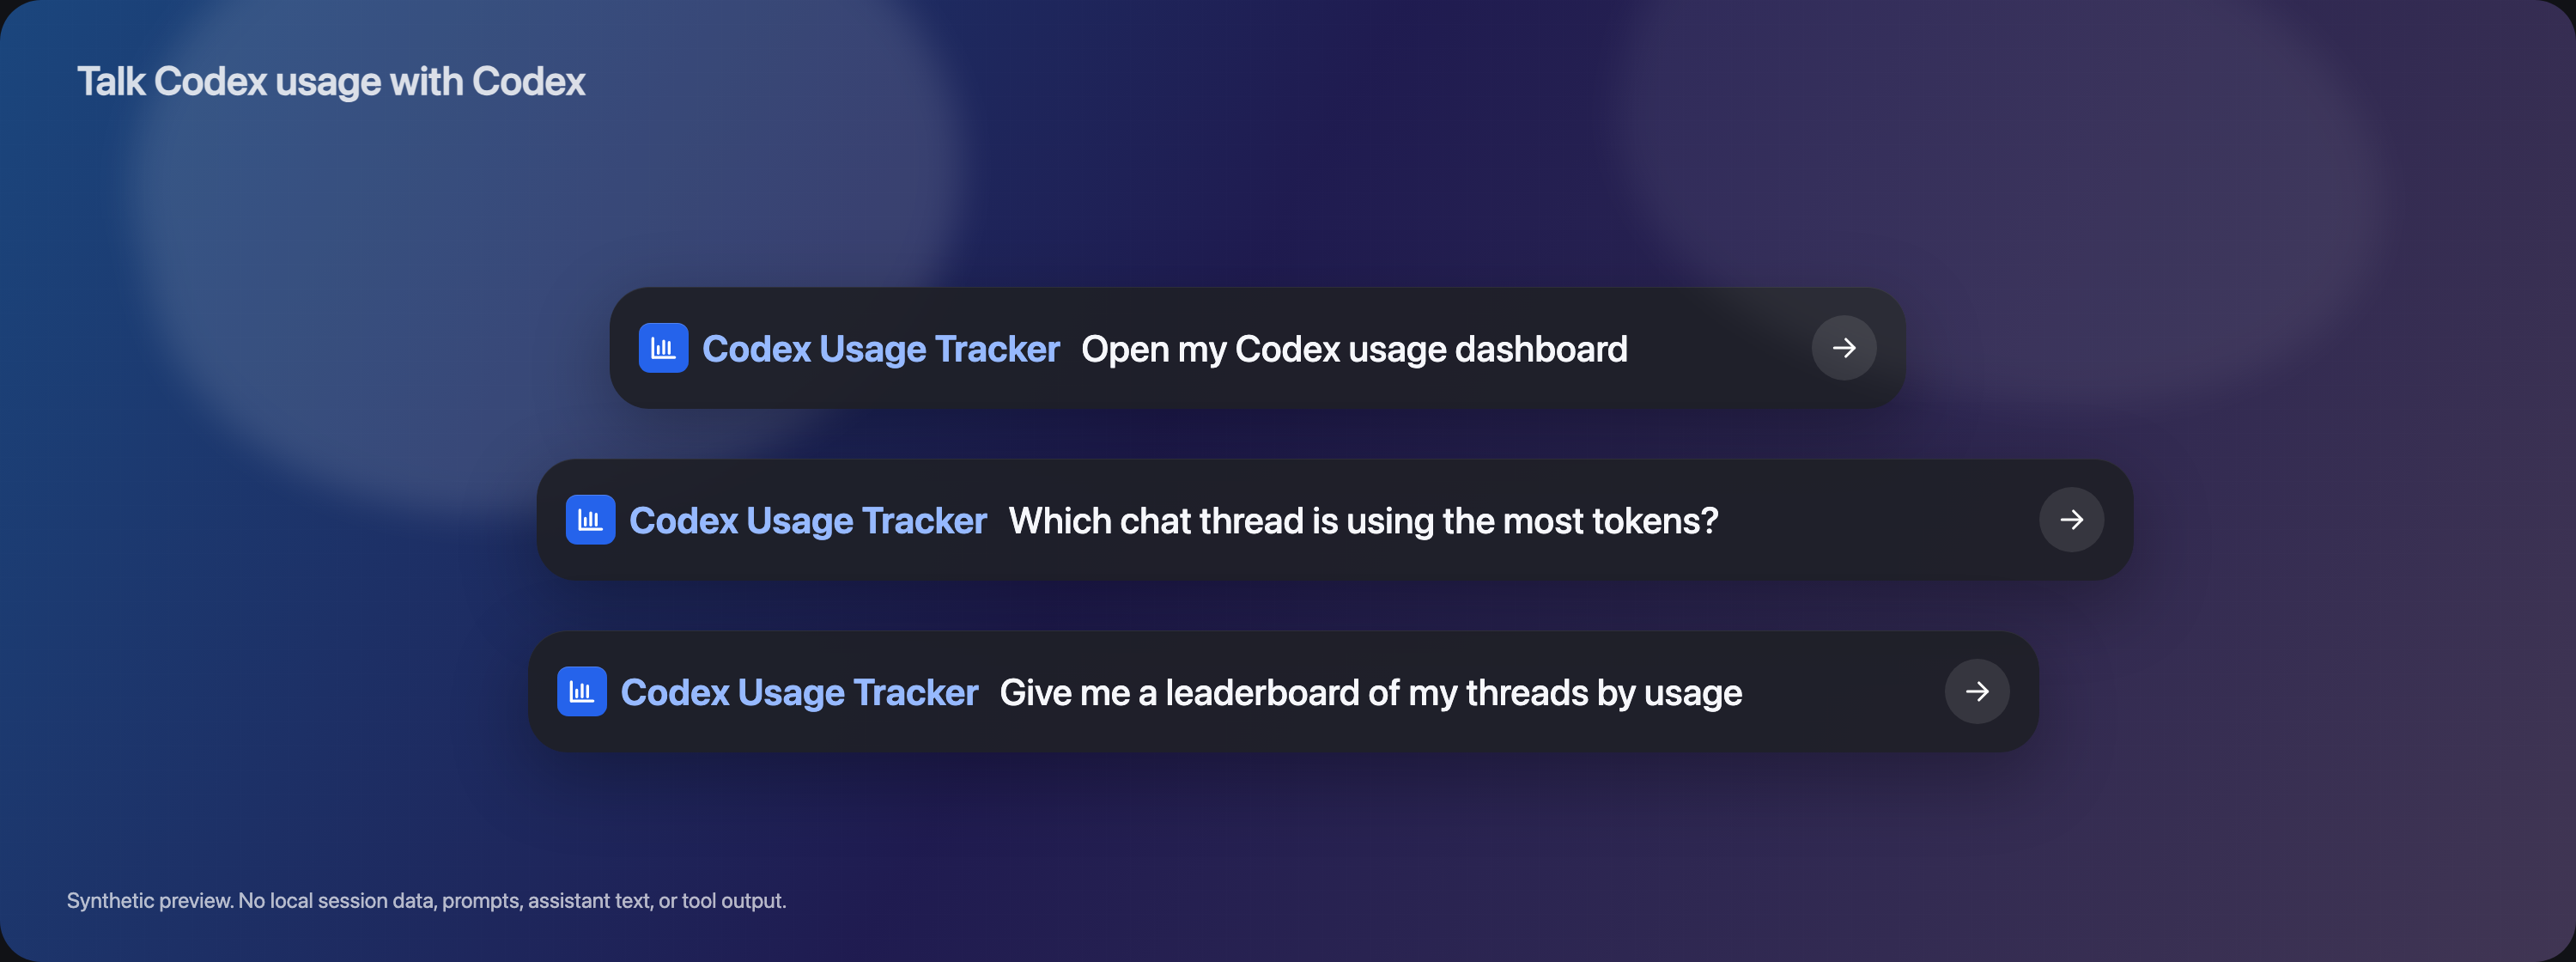
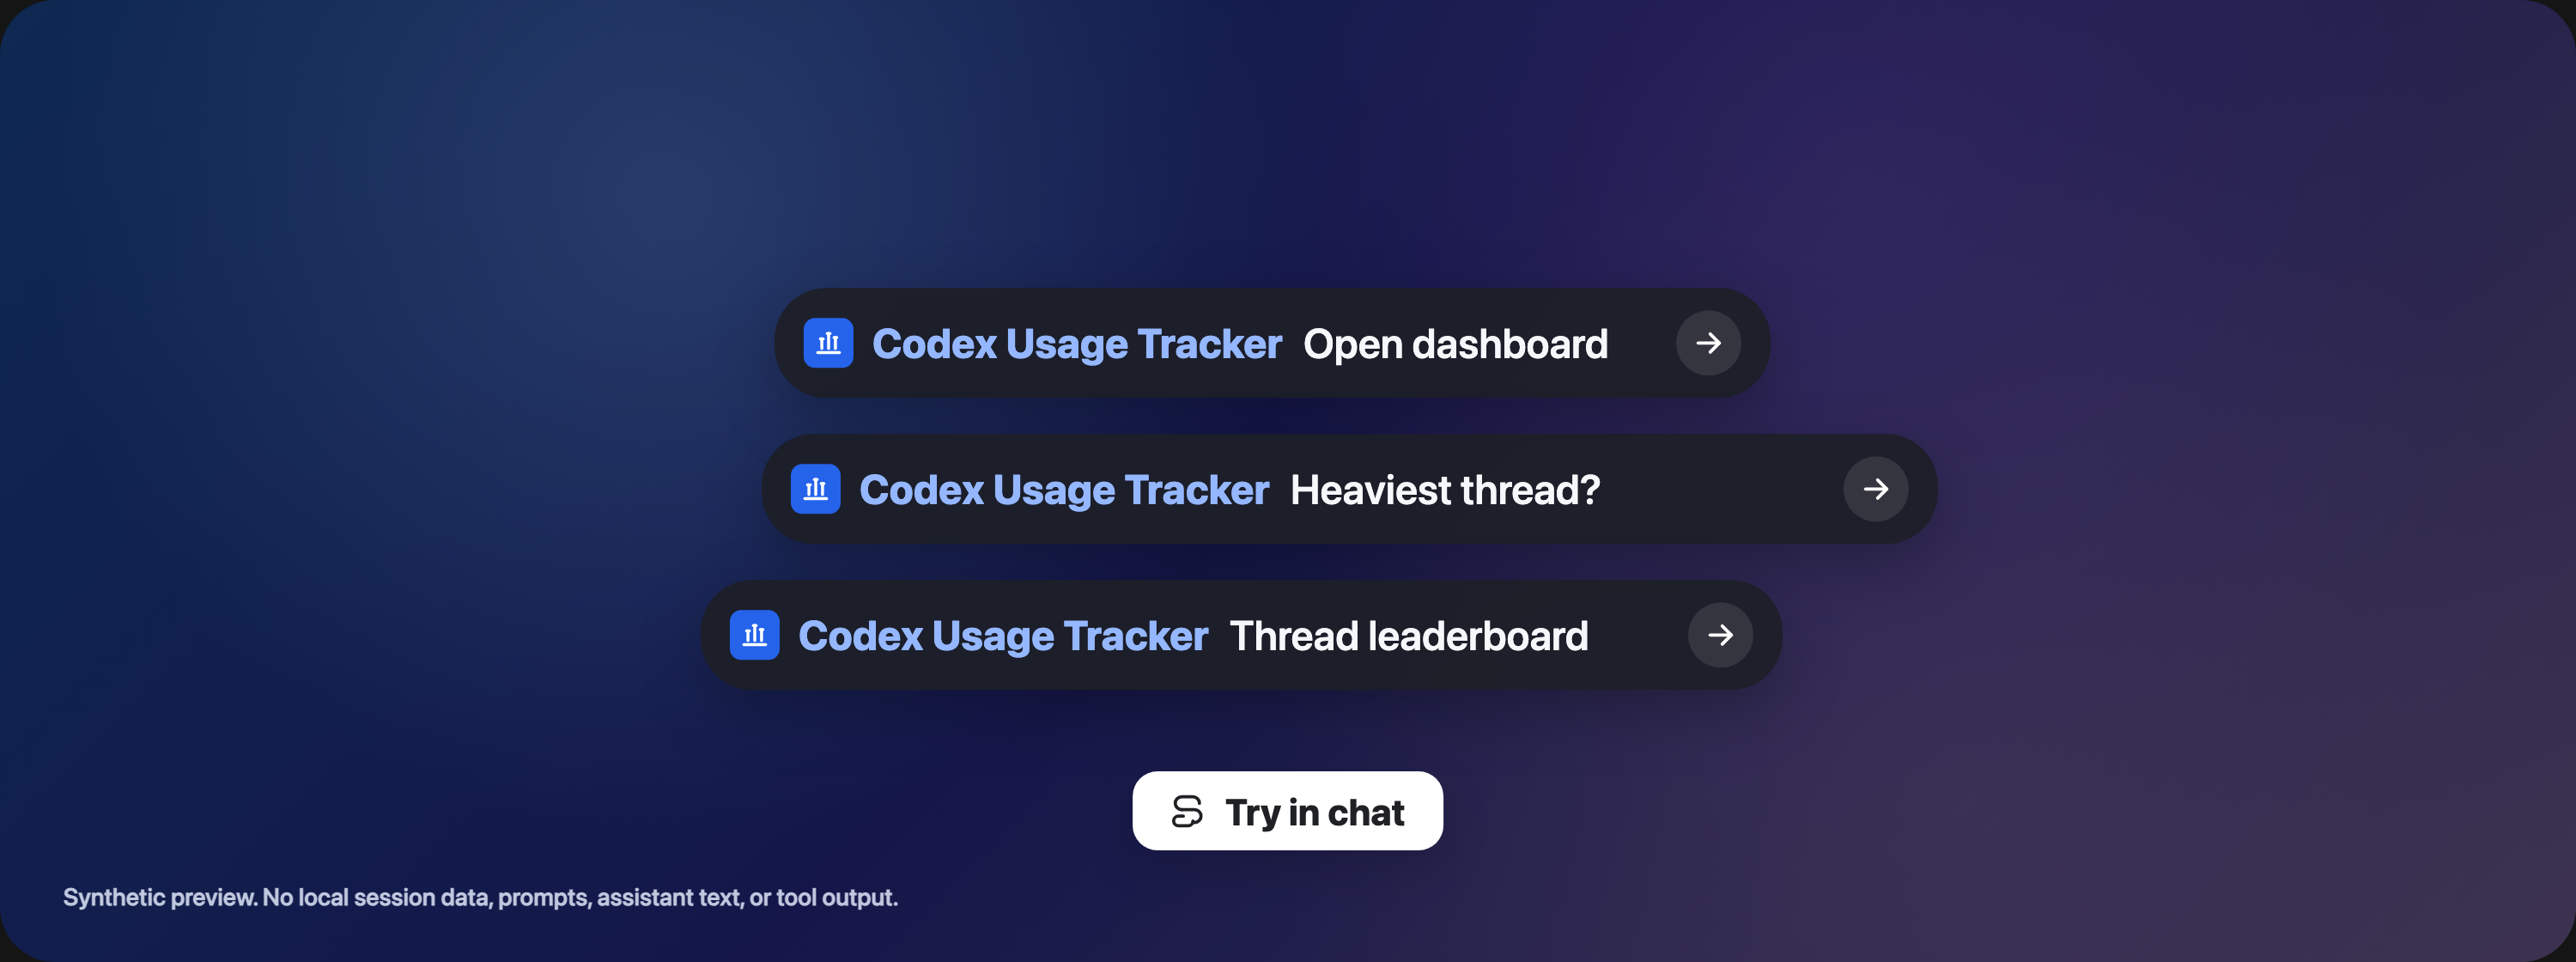
docs: streamline plugin starters

diff --git a/src/codex_usage_tracker/plugin_installer.py b/src/codex_usage_tracker/plugin_installer.py
@@ -211,9 +211,9 @@ def plugin_manifest() -> dict[str, Any]:
             "privacyPolicyURL": "https://github.com/douglasmonsky/codex-usage-tracker",
             "termsOfServiceURL": "https://github.com/douglasmonsky/codex-usage-tracker",
             "defaultPrompt": [
-                "Open my Codex usage dashboard",
-                "Which chat thread is using the most tokens?",
-                "Give me a leaderboard of my threads by usage",
+                "Open dashboard",
+                "Heaviest thread?",
+                "Thread leaderboard",
             ],
             "brandColor": "#2563EB",
             "composerIcon": "./assets/icon.svg",

diff --git a/tests/test_plugin_installer.py b/tests/test_plugin_installer.py
@@ -36,9 +36,9 @@ def test_install_plugin_writes_generated_wrapper_and_marketplace(tmp_path: Path)
     assert manifest["name"] == "codex-usage-tracker"
     assert manifest["version"] == "0.2.0"
     assert manifest["interface"]["defaultPrompt"][:3] == [
-        "Open my Codex usage dashboard",
-        "Which chat thread is using the most tokens?",
-        "Give me a leaderboard of my threads by usage",
+        "Open dashboard",
+        "Heaviest thread?",
+        "Thread leaderboard",
     ]
     assert (plugin_dir / "assets" / "icon.svg").exists()
     assert (plugin_dir / "skills" / "codex-usage-api" / "SKILL.md").exists()

diff --git a/skills/codex-usage-api/SKILL.md b/skills/codex-usage-api/SKILL.md
@@ -17,18 +17,20 @@ The only exception is `usage_call_context`, which reads one selected record's lo
 
 ## First Steps
 
-1. For normal usage questions, do not inspect repository files, plugin manifests, or local logs first. Start with the aggregate MCP tools. If MCP tools are unavailable, use the CLI JSON fallback below.
-2. Refresh before analysis with `refresh_usage_index` unless the user asks for a static historical snapshot. Keep archived sessions excluded unless the user explicitly asks for all history.
-3. Use `usage_doctor(response_format="json")` when setup, indexing, pricing, MCP discovery, or dashboard freshness is uncertain.
-4. Prefer JSON responses for analysis:
+1. For "Open dashboard" or similar dashboard-open requests, do not inspect repository files, plugin manifests, tool registries, git status, or local logs first. Run `codex-usage-tracker open-dashboard --refresh` immediately, then report the opened path or a brief failure.
+2. For "Heaviest thread?", "Thread leaderboard", or similar thread-ranking requests, do not inspect repository files, SQLite schemas, plugin manifests, process lists, dashboard servers, or local logs manually. Refresh the aggregate index, then call `usage_summary(group_by="thread", limit=10, response_format="json")`. If MCP tools are unavailable, run `codex-usage-tracker refresh --json` and `codex-usage-tracker summary --group-by thread --limit 10 --json`.
+3. For normal usage questions, do not inspect repository files, plugin manifests, or local logs first. Start with the aggregate MCP tools. If MCP tools are unavailable, use the CLI JSON fallback below.
+4. Refresh before analysis with `refresh_usage_index` unless the user asks for a static historical snapshot. Keep archived sessions excluded unless the user explicitly asks for all history.
+5. Use `usage_doctor(response_format="json")` when setup, indexing, pricing, MCP discovery, or dashboard freshness is uncertain.
+6. Prefer JSON responses for analysis:
    - `usage_summary(..., response_format="json")`
    - `session_usage(..., response_format="json")`
    - `most_expensive_usage_calls(..., response_format="json")`
    - `usage_recommendations(..., response_format="json")`
    - `usage_pricing_coverage(..., response_format="json")`
    - `usage_query(...)`
-5. Check the top-level `schema` field before interpreting structured output. Known schema ids are documented in `docs/cli-json-schemas.md`.
-6. If MCP tools are unavailable, fall back to the CLI equivalents:
+7. Check the top-level `schema` field before interpreting structured output. Known schema ids are documented in `docs/cli-json-schemas.md`.
+8. If MCP tools are unavailable, fall back to the CLI equivalents:
    - `codex-usage-tracker refresh --json`
    - `codex-usage-tracker summary --group-by thread --json`
    - `codex-usage-tracker query`
@@ -36,8 +38,8 @@ The only exception is `usage_call_context`, which reads one selected record's lo
    - `codex-usage-tracker expensive --json`
    - `codex-usage-tracker recommendations --json`
    - `codex-usage-tracker pricing-coverage --json`
-7. If the `codex-usage-tracker` command is missing, run `codex-usage-tracker doctor --suggest-repair --json` only if the command is available through an absolute path or known environment. Otherwise report that the CLI is not on `PATH` and ask the user to run `codex-usage-tracker setup` or reinstall with `pipx`.
-8. Use source-checkout fallbacks only when you are already inside the repo checkout: `PYTHONPATH=src .venv/bin/python -m codex_usage_tracker.cli <command>`. Do not use `PYTHONPATH=src` outside that checkout, and do not keep exploring plugin files after a setup failure.
+9. If the `codex-usage-tracker` command is missing, run `codex-usage-tracker doctor --suggest-repair --json` only if the command is available through an absolute path or known environment. Otherwise report that the CLI is not on `PATH` and ask the user to run `codex-usage-tracker setup` or reinstall with `pipx`.
+10. Use source-checkout fallbacks only when you are already inside the repo checkout: `PYTHONPATH=src .venv/bin/python -m codex_usage_tracker.cli <command>`. Do not use `PYTHONPATH=src` outside that checkout, and do not keep exploring plugin files after a setup failure.
 
 ## Routing Questions To API Calls
 
@@ -53,6 +55,7 @@ The only exception is `usage_call_context`, which reads one selected record's lo
 ## Answer Style
 
 - Lead with the direct answer and the key metric.
+- For default prompt workflows, use at most one short progress update such as "Refreshing aggregate usage, then ranking threads." Avoid narrating tool discovery, process inspection, SQLite schema inspection, or plugin-file lookup.
 - Name the data scope, such as time window, project, thread, model, row count, and whether rows were truncated.
 - Separate exact facts from estimates. Call out `pricing_estimated`, missing `pricing_model`, `usage_credit_confidence`, and missing allowance windows.
 - Include the next useful investigation when the answer depends on unclear pricing, stale allowance values, or a broad time window.

diff --git a/src/codex_usage_tracker/plugin_data/skills/codex-usage-api/SKILL.md b/src/codex_usage_tracker/plugin_data/skills/codex-usage-api/SKILL.md
@@ -17,18 +17,20 @@ The only exception is `usage_call_context`, which reads one selected record's lo
 
 ## First Steps
 
-1. For normal usage questions, do not inspect repository files, plugin manifests, or local logs first. Start with the aggregate MCP tools. If MCP tools are unavailable, use the CLI JSON fallback below.
-2. Refresh before analysis with `refresh_usage_index` unless the user asks for a static historical snapshot. Keep archived sessions excluded unless the user explicitly asks for all history.
-3. Use `usage_doctor(response_format="json")` when setup, indexing, pricing, MCP discovery, or dashboard freshness is uncertain.
-4. Prefer JSON responses for analysis:
+1. For "Open dashboard" or similar dashboard-open requests, do not inspect repository files, plugin manifests, tool registries, git status, or local logs first. Run `codex-usage-tracker open-dashboard --refresh` immediately, then report the opened path or a brief failure.
+2. For "Heaviest thread?", "Thread leaderboard", or similar thread-ranking requests, do not inspect repository files, SQLite schemas, plugin manifests, process lists, dashboard servers, or local logs manually. Refresh the aggregate index, then call `usage_summary(group_by="thread", limit=10, response_format="json")`. If MCP tools are unavailable, run `codex-usage-tracker refresh --json` and `codex-usage-tracker summary --group-by thread --limit 10 --json`.
+3. For normal usage questions, do not inspect repository files, plugin manifests, or local logs first. Start with the aggregate MCP tools. If MCP tools are unavailable, use the CLI JSON fallback below.
+4. Refresh before analysis with `refresh_usage_index` unless the user asks for a static historical snapshot. Keep archived sessions excluded unless the user explicitly asks for all history.
+5. Use `usage_doctor(response_format="json")` when setup, indexing, pricing, MCP discovery, or dashboard freshness is uncertain.
+6. Prefer JSON responses for analysis:
    - `usage_summary(..., response_format="json")`
    - `session_usage(..., response_format="json")`
    - `most_expensive_usage_calls(..., response_format="json")`
    - `usage_recommendations(..., response_format="json")`
    - `usage_pricing_coverage(..., response_format="json")`
    - `usage_query(...)`
-5. Check the top-level `schema` field before interpreting structured output. Known schema ids are documented in `docs/cli-json-schemas.md`.
-6. If MCP tools are unavailable, fall back to the CLI equivalents:
+7. Check the top-level `schema` field before interpreting structured output. Known schema ids are documented in `docs/cli-json-schemas.md`.
+8. If MCP tools are unavailable, fall back to the CLI equivalents:
    - `codex-usage-tracker refresh --json`
    - `codex-usage-tracker summary --group-by thread --json`
    - `codex-usage-tracker query`
@@ -36,8 +38,8 @@ The only exception is `usage_call_context`, which reads one selected record's lo
    - `codex-usage-tracker expensive --json`
    - `codex-usage-tracker recommendations --json`
    - `codex-usage-tracker pricing-coverage --json`
-7. If the `codex-usage-tracker` command is missing, run `codex-usage-tracker doctor --suggest-repair --json` only if the command is available through an absolute path or known environment. Otherwise report that the CLI is not on `PATH` and ask the user to run `codex-usage-tracker setup` or reinstall with `pipx`.
-8. Use source-checkout fallbacks only when you are already inside the repo checkout: `PYTHONPATH=src .venv/bin/python -m codex_usage_tracker.cli <command>`. Do not use `PYTHONPATH=src` outside that checkout, and do not keep exploring plugin files after a setup failure.
+9. If the `codex-usage-tracker` command is missing, run `codex-usage-tracker doctor --suggest-repair --json` only if the command is available through an absolute path or known environment. Otherwise report that the CLI is not on `PATH` and ask the user to run `codex-usage-tracker setup` or reinstall with `pipx`.
+10. Use source-checkout fallbacks only when you are already inside the repo checkout: `PYTHONPATH=src .venv/bin/python -m codex_usage_tracker.cli <command>`. Do not use `PYTHONPATH=src` outside that checkout, and do not keep exploring plugin files after a setup failure.
 
 ## Routing Questions To API Calls
 
@@ -53,6 +55,7 @@ The only exception is `usage_call_context`, which reads one selected record's lo
 ## Answer Style
 
 - Lead with the direct answer and the key metric.
+- For default prompt workflows, use at most one short progress update such as "Refreshing aggregate usage, then ranking threads." Avoid narrating tool discovery, process inspection, SQLite schema inspection, or plugin-file lookup.
 - Name the data scope, such as time window, project, thread, model, row count, and whether rows were truncated.
 - Separate exact facts from estimates. Call out `pricing_estimated`, missing `pricing_model`, `usage_credit_confidence`, and missing allowance windows.
 - Include the next useful investigation when the answer depends on unclear pricing, stale allowance values, or a broad time window.

diff --git a/skills/codex-usage-tracker/SKILL.md b/skills/codex-usage-tracker/SKILL.md
@@ -15,6 +15,17 @@ The index, dashboard payload, CSV export, and normal summaries are aggregate-onl
 
 The only exception is `usage_call_context`, which intentionally reads one selected record's source JSONL on demand. It requires `CODEX_USAGE_TRACKER_ALLOW_RAW_CONTEXT=1` in the MCP server environment. Use it only when the user explicitly asks to inspect actual context, and mention that returned text is local, redacted, size-limited, and not persisted by the tracker.
 
+## Fast Paths
+
+- For "Open dashboard" or similar dashboard-open requests, do not inspect repository files, plugin manifests, tool registries, git status, or local logs first. Run `codex-usage-tracker open-dashboard --refresh` immediately.
+- For "Heaviest thread?", "Thread leaderboard", or similar thread-ranking requests, do not inspect repository files, SQLite schemas, plugin manifests, process lists, dashboard servers, or local logs manually. Use the tracker API: refresh the aggregate index, then rank threads with `usage_summary(group_by="thread", limit=10, response_format="json")`.
+- If MCP tools are unavailable for thread-ranking requests, run `codex-usage-tracker refresh --json` and `codex-usage-tracker summary --group-by thread --limit 10 --json`. The summary is already ordered by `total_tokens` descending.
+- Answer thread-ranking requests directly from the summary rows. For the heaviest-thread question, lead with the first row's thread and total tokens; for leaderboard requests, show a compact ranked list.
+- If the CLI command is missing for open-dashboard requests and you are already inside the source checkout, use `PYTHONPATH=src .venv/bin/python -m codex_usage_tracker.cli open-dashboard --refresh`.
+- If the CLI command is missing for thread-ranking requests and you are already inside the source checkout, use `PYTHONPATH=src .venv/bin/python -m codex_usage_tracker.cli refresh --json` and `PYTHONPATH=src .venv/bin/python -m codex_usage_tracker.cli summary --group-by thread --limit 10 --json`.
+- If neither command is available, say briefly that the tracker CLI is not on `PATH` and ask the user to run `codex-usage-tracker setup` or reinstall with `pipx`.
+- Keep open-dashboard narration minimal: one short progress note if needed, then the opened path or the failure. Do not narrate plugin discovery.
+
 ## Common Workflows
 
 - Refresh the index before answering usage questions.

diff --git a/src/codex_usage_tracker/plugin_data/skills/codex-usage-tracker/SKILL.md b/src/codex_usage_tracker/plugin_data/skills/codex-usage-tracker/SKILL.md
@@ -15,6 +15,17 @@ The index, dashboard payload, CSV export, and normal summaries are aggregate-onl
 
 The only exception is `usage_call_context`, which intentionally reads one selected record's source JSONL on demand. It requires `CODEX_USAGE_TRACKER_ALLOW_RAW_CONTEXT=1` in the MCP server environment. Use it only when the user explicitly asks to inspect actual context, and mention that returned text is local, redacted, size-limited, and not persisted by the tracker.
 
+## Fast Paths
+
+- For "Open dashboard" or similar dashboard-open requests, do not inspect repository files, plugin manifests, tool registries, git status, or local logs first. Run `codex-usage-tracker open-dashboard --refresh` immediately.
+- For "Heaviest thread?", "Thread leaderboard", or similar thread-ranking requests, do not inspect repository files, SQLite schemas, plugin manifests, process lists, dashboard servers, or local logs manually. Use the tracker API: refresh the aggregate index, then rank threads with `usage_summary(group_by="thread", limit=10, response_format="json")`.
+- If MCP tools are unavailable for thread-ranking requests, run `codex-usage-tracker refresh --json` and `codex-usage-tracker summary --group-by thread --limit 10 --json`. The summary is already ordered by `total_tokens` descending.
+- Answer thread-ranking requests directly from the summary rows. For the heaviest-thread question, lead with the first row's thread and total tokens; for leaderboard requests, show a compact ranked list.
+- If the CLI command is missing for open-dashboard requests and you are already inside the source checkout, use `PYTHONPATH=src .venv/bin/python -m codex_usage_tracker.cli open-dashboard --refresh`.
+- If the CLI command is missing for thread-ranking requests and you are already inside the source checkout, use `PYTHONPATH=src .venv/bin/python -m codex_usage_tracker.cli refresh --json` and `PYTHONPATH=src .venv/bin/python -m codex_usage_tracker.cli summary --group-by thread --limit 10 --json`.
+- If neither command is available, say briefly that the tracker CLI is not on `PATH` and ask the user to run `codex-usage-tracker setup` or reinstall with `pipx`.
+- Keep open-dashboard narration minimal: one short progress note if needed, then the opened path or the failure. Do not narrate plugin discovery.
+
 ## Common Workflows
 
 - Refresh the index before answering usage questions.

diff --git a/docs/mcp.md b/docs/mcp.md
@@ -32,10 +32,10 @@ The plugin installs two companion skills. They are local instruction files that 
 Good prompts for the API companion skill:
 
 ```text
-Open my Codex usage dashboard.
+Open dashboard.
 Use my Codex Usage Tracker data to explain what drove usage this week.
-Which chat thread is using the most tokens?
-Give me a leaderboard of my threads by usage.
+Heaviest thread?
+Thread leaderboard.
 Find low-cache or high-context calls from today and suggest what to inspect next.
 Compare usage by project for the last 7 days.
 Show me what is estimated or unpriced before I trust the cost numbers.

diff --git a/README.md b/README.md
@@ -1,7 +1,7 @@
 # Codex Usage Tracker
 
 <p align="center">
-  <a href="docs/assets/plugin-prompts.png"><img src="docs/assets/plugin-prompts.png?v=usage-prompts" alt="Codex Usage Tracker companion prompts for opening the dashboard, finding the heaviest thread, and showing a thread leaderboard." width="49%"></a>
+  <a href="docs/assets/plugin-prompts.png"><img src="docs/assets/plugin-prompts.png?v=short-prompts" alt="Codex Usage Tracker companion prompts for opening the dashboard, finding the heaviest thread, and showing a thread leaderboard." width="49%"></a>
   <a href="docs/assets/dashboard-calls.png"><img src="docs/assets/dashboard-calls-preview.png?v=usage-dashboard" alt="Codex Usage Tracker dashboard showing filters, usage totals, call rows, and call details." width="49%"></a>
 </p>
 